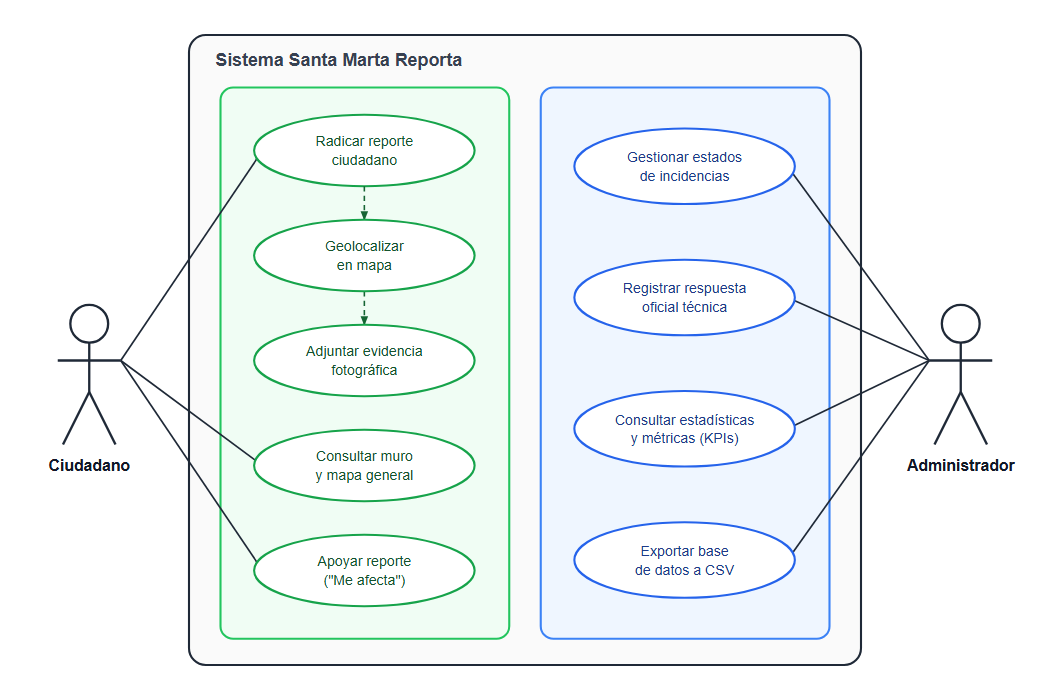
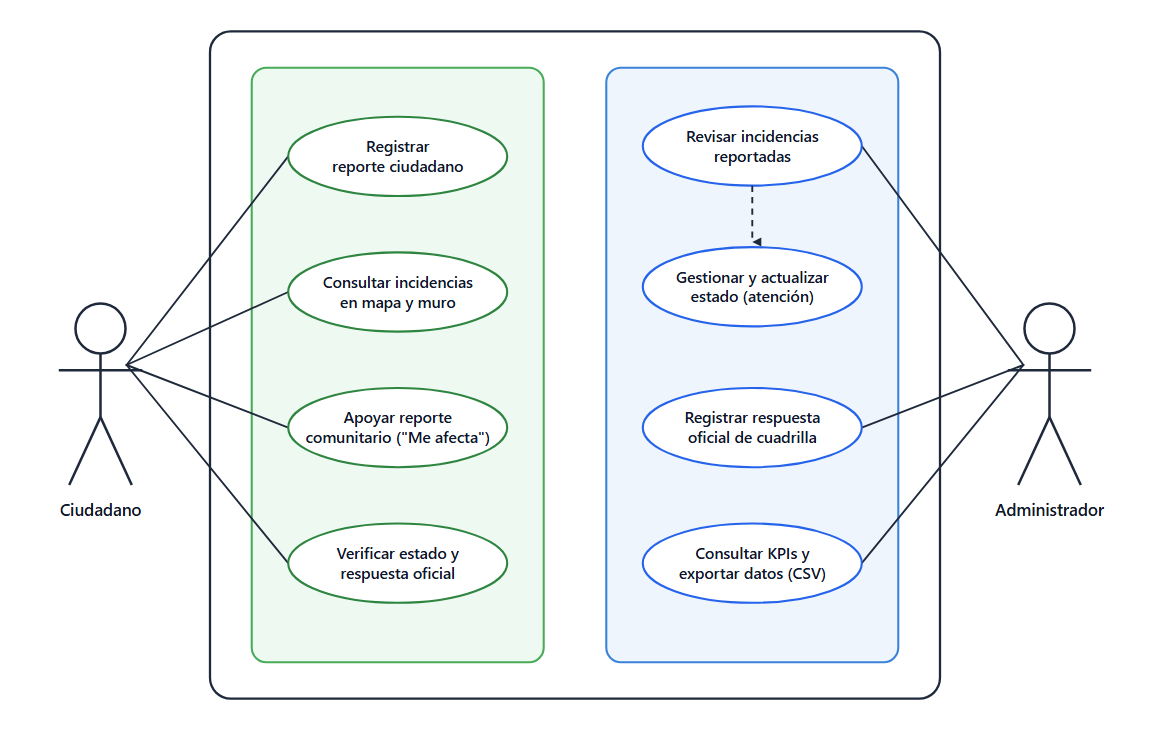
docs: rediseño presentable y simetrico de casos de uso UML estilo plantilla

Changed region(s): [[0.0305, 0.03, 0.9448, 0.96], [0.8533, 0.57, 0.9752, 0.72]]

diff --git a/docs/DOCUMENTO_SEGUNDO_SEGUIMIENTO.md b/docs/DOCUMENTO_SEGUNDO_SEGUIMIENTO.md
@@ -389,39 +389,37 @@ flowchart LR
 
     subgraph Sistema ["Sistema Santa Marta Reporta"]
         subgraph ModCiudadano ["Módulo Ciudadano"]
-            UC1(["Radicar reporte ciudadano"]):::greenUC
-            UC2(["Geolocalizar en mapa"]):::greenUC
-            UC3(["Adjuntar evidencia fotográfica"]):::greenUC
-            UC4(["Consultar muro y mapa general"]):::greenUC
-            UC5(["Apoyar reporte ('Me afecta')"]):::greenUC
+            UC1(["Registrar reporte ciudadano"]):::greenUC
+            UC2(["Consultar incidencias en mapa y muro"]):::greenUC
+            UC3(["Apoyar reporte comunitario ('Me afecta')"]):::greenUC
+            UC4(["Verificar estado y respuesta oficial"]):::greenUC
         end
 
         subgraph ModAdmin ["Módulo Administrador"]
-            UC6(["Gestionar estados de incidencias"]):::blueUC
-            UC7(["Registrar respuesta oficial técnica"]):::blueUC
-            UC8(["Consultar estadísticas y métricas (KPIs)"]):::blueUC
-            UC9(["Exportar base de datos a CSV"]):::blueUC
+            UC5(["Revisar incidencias reportadas"]):::blueUC
+            UC6(["Gestionar y actualizar estado (atención)"]):::blueUC
+            UC7(["Registrar respuesta oficial de cuadrilla"]):::blueUC
+            UC8(["Consultar KPIs y exportar datos (CSV)"]):::blueUC
         end
     end
 
     %% Asociaciones Ciudadano
     Ciudadano --- UC1
+    Ciudadano --- UC2
+    Ciudadano --- UC3
     Ciudadano --- UC4
-    Ciudadano --- UC5
-    UC1 -.->|<<include>>| UC2
-    UC1 -.->|<<include>>| UC3
 
-    %% Asociaciones Administrador
-    Admin --- UC6
+    %% Asociaciones Administrador y flujo de gestión
+    Admin --- UC5
     Admin --- UC7
     Admin --- UC8
-    Admin --- UC9
+    UC5 -.->|<<include>>| UC6
 
-    classDef greenUC fill:#f0fdf4,stroke:#16a34a,stroke-width:2px,color:#14532d;
-    classDef blueUC fill:#eff6ff,stroke:#2563eb,stroke-width:2px,color:#1e3a8a;
-    style ModCiudadano fill:#f0fdf4,stroke:#22c55e,stroke-width:2px;
-    style ModAdmin fill:#eff6ff,stroke:#3b82f6,stroke-width:2px;
-    style Sistema fill:#fafafa,stroke:#1f2937,stroke-width:2px;
+    classDef greenUC fill:#ffffff,stroke:#2e8540,stroke-width:2px,color:#0f172a;
+    classDef blueUC fill:#ffffff,stroke:#2563eb,stroke-width:2px,color:#0f172a;
+    style ModCiudadano fill:#eef9f1,stroke:#48ab57,stroke-width:2px;
+    style ModAdmin fill:#eef5fc,stroke:#3b82d9,stroke-width:2px;
+    style Sistema fill:#ffffff,stroke:#1e293b,stroke-width:2.2px;
 ```
 
 ### 6.2 Diagrama de Actividades (Ciclo Completo de una Incidencia)
